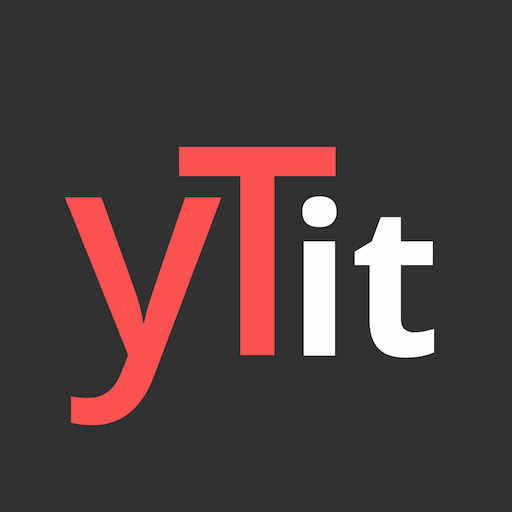
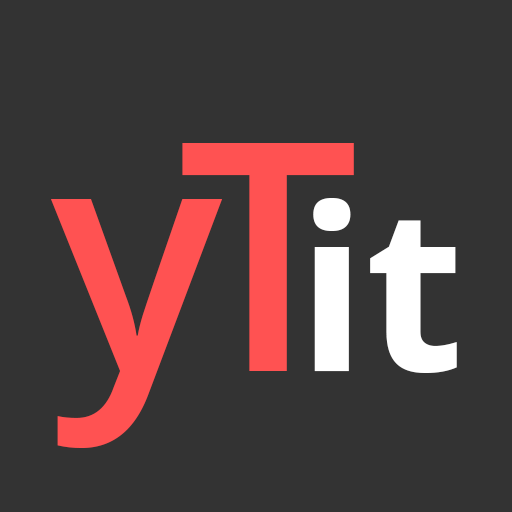
version 1.2.1
add changes from original repository: copy mod message via button
change pwa theme color
minor text changes
minor layout changes
make mod message textarea not resizable
improve icon
bump version to 1.2.1

diff --git a/index.html b/index.html
@@ -3,14 +3,14 @@
   <head>
     <meta charset="utf-8">
     <meta name="viewport" content="width=device-width, initial-scale=1.0">
-    <meta name="version" content="1.1.1" />
+    <meta name="version" content="1.2.1" />
     <meta name="Description" content="Takes start and stop points of a YouTube video, down to the frame, and gives the time between them in the format 1h 23m 45s 678ms.">
+    <meta name="theme-color" content="#ff5252"/>
     <title>YouTube Frame Timer</title>
-    <meta name="theme-color" content="#4d4d4d"/>
-    <link rel="stylesheet" href="style.css" />
     <link rel="manifest" href="manifest.webmanifest">
     <link rel="shortcut icon" href="icon.png">
     <link rel="apple-touch-icon" href="icon.png">
+    <link rel="stylesheet" href="style.css" />
     <script type="text/javascript">
       if('serviceWorker' in navigator) {
         navigator.serviceWorker.register('ServiceWorker.js', {scope: '.'})
@@ -29,13 +29,15 @@
         <h1 id="youtube-interval-timer">YouTube Interval Timer</h1>
         <hr>
         <br>
-        <p>Takes start and stop points of a YouTube video, down to the frame, and gives the time between them in the format <code>1h 23m 45s 678ms</code>. Source code is <a href="https://github.com/slashinfty/yt-frame-timer">available</a>.</p>
+        <p>Takes start and stop points of a YouTube video, down to the frame, and gives the time between them in the format
+          <code>1h 23m 45s 678ms</code>. The source code is available <a href="https://github.com/slashinfty/yt-frame-timer">here</a>.
+        </p>
       </header>
 
       <section>
         <h2 id="video-framerate">Video Framerate</h2>
-        <p>Right click the YouTube video and select "Stats for nerds." The third line is "Current / Optimal Res" - find the
-          two numbers after the @ and enter them for framerate.
+        <p>Right click the YouTube video and select "Stats for nerds". In the third line "Current / Optimal Res", find the
+          two numbers after the @ and enter them as framerate.
         </p>
         <p>
           <label for="framerate">
@@ -49,7 +51,7 @@
           <h2 id="video-endpoints">Video Endpoints</h2>
           <p>
             Find the starting point (you can use the <kbd>,</kbd> and <kbd>.</kbd> keys to find the exact frame). Right
-            click the video and select "Copy debug info" and paste it for starting frame. Repeat for ending frame.
+            click the video, select "Copy debug info" and paste it into "Starting frame". Repeat for ending frame.
           </p>
           <p>
             <label for="startobj">
@@ -61,19 +63,14 @@
               Ending frame: <input type="text" id="endobj" onchange='parseForTime(event)' required/>
             </label>
           </p>
+
           <h2 id="video-time">Video Time</h2>
-          <p>
-            <button id="computeButton" type="submit">Compute time</button>
-            <input type="text" id="time" readonly size="20" />
-          </p>
+          <button id="computeButton" type="submit">Compute time</button>
+          <input type="text" id="time" readonly size="15" />
+          <textarea id="modMessage" cols="40" rows="5" disabled></textarea>
+          <button id="modMessageButton" onclick="copyModMessage()" disabled>Copy Mod Message to Clipboard</button>
         </form>
       </section>
-
-      <section>
-        <p id="modMessage"></p>
-        <p id="postModMessage"></p>
-      </section>
-
     </main>
     <script src="main.js"></script>
   </body>

diff --git a/main.js b/main.js
@@ -41,13 +41,18 @@ function compute() {
     let modMessage = `Mod Message: Time starts at ${parseFloat(startFrame).toFixed(3)} and ends at ${parseFloat(endFrame).toFixed(3)} at ${frameRate} fps to get a final time of ${finalTime}.`;
     let credits = `Retimed using [yt-frame-timer](https://mattbraddock.com/yt-frame-timer)`;
     document.getElementById('time').value = finalTime;
-    document.getElementById('postModMessage').innerHTML = "The mod message has been copied to clipboard! Please paste the it into the comment of the run you are verifying.";
-    document.getElementById('modMessage').innerHTML = modMessage + ' ' + credits;
+    document.getElementById('modMessage').disabled = false;
+    document.getElementById('modMessage').innerText = modMessage + ' ' + credits;
+    document.getElementById("modMessageButton").disabled = false;
+}
 
-    // Copy mod message to clipboard
-    navigator.clipboard.writeText(modMessage)
-        .then(() => { alert(`Copied to clipboard!`) })
-        .catch((error) => { alert(`Copy failed! ${error}`) })
+function copyModMessage() {
+    // Allow user to copy mod message to clipboard
+    const textArea = document.getElementById('modMessage');
+    textArea.focus();
+    textArea.select();
+    document.execCommand('copy');
+    alert(`The mod message has been copied to clipboard! Please paste it into the comment of the run you are verifying.`);
 }
 
 const validateFPS = (event) => {

diff --git a/style.css b/style.css
@@ -13,16 +13,16 @@
 body {
   display: grid;
   color: var(--dark);
-  font-size: 1rem;
+  font-size: 1em;
   font-family: 'Lato', sans-serif;
-  line-height: 1.67;
+  line-height: 1.7;
   -webkit-font-smoothing: antialiased;
   -moz-osx-font-smoothing: grayscale;
+  padding-bottom: 1em;
 }
 
 main {
   max-width: 800px;
-  min-width: 200px;
   width: 90vw;
   justify-self: center;
 }
@@ -47,6 +47,12 @@ p {
   font-weight: bold;
 }
 
+#modMessage {
+  margin-top: 1em;
+  margin-bottom: 0.8em;
+  resize: none;
+  display: block;
+}
 kbd {
     background-color: #eee;
     border-radius: 3px;
@@ -79,5 +85,5 @@ a:link, a:visited {
 }
 
 #startobj, #endobj {
-  width: 100%;
+  width: 98%;
 }
